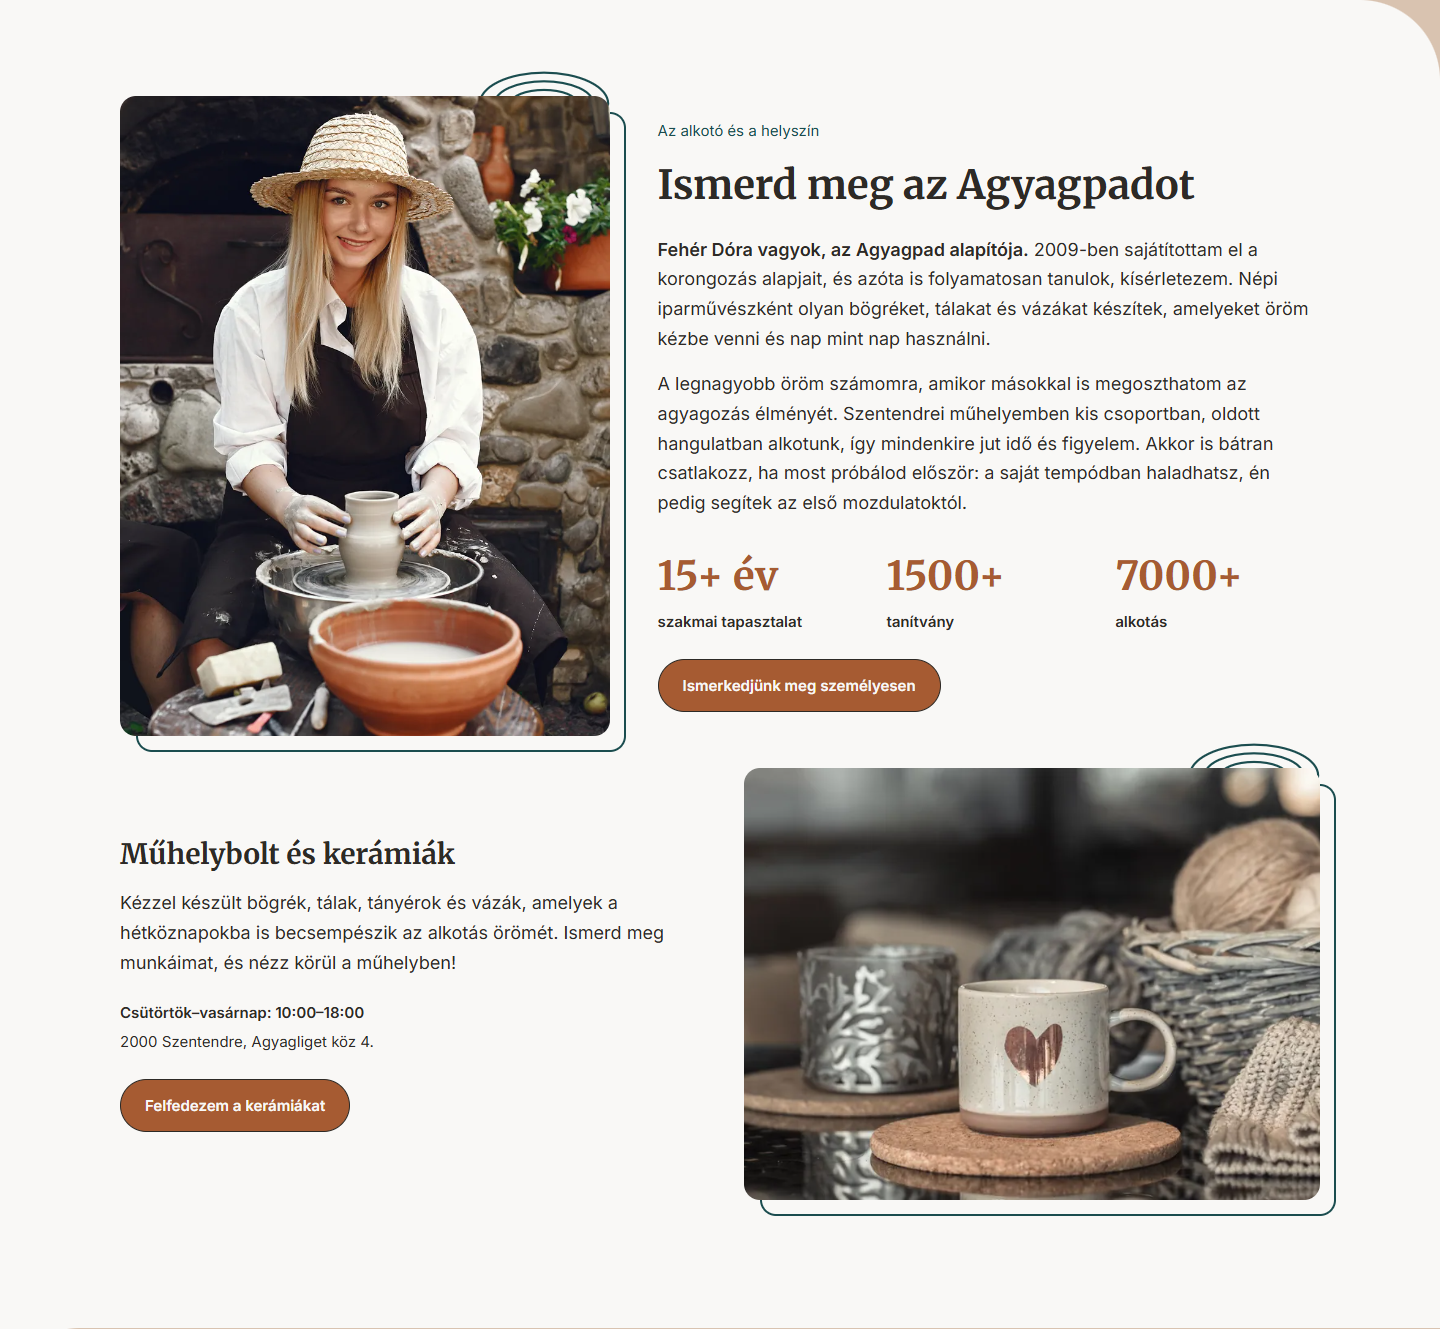
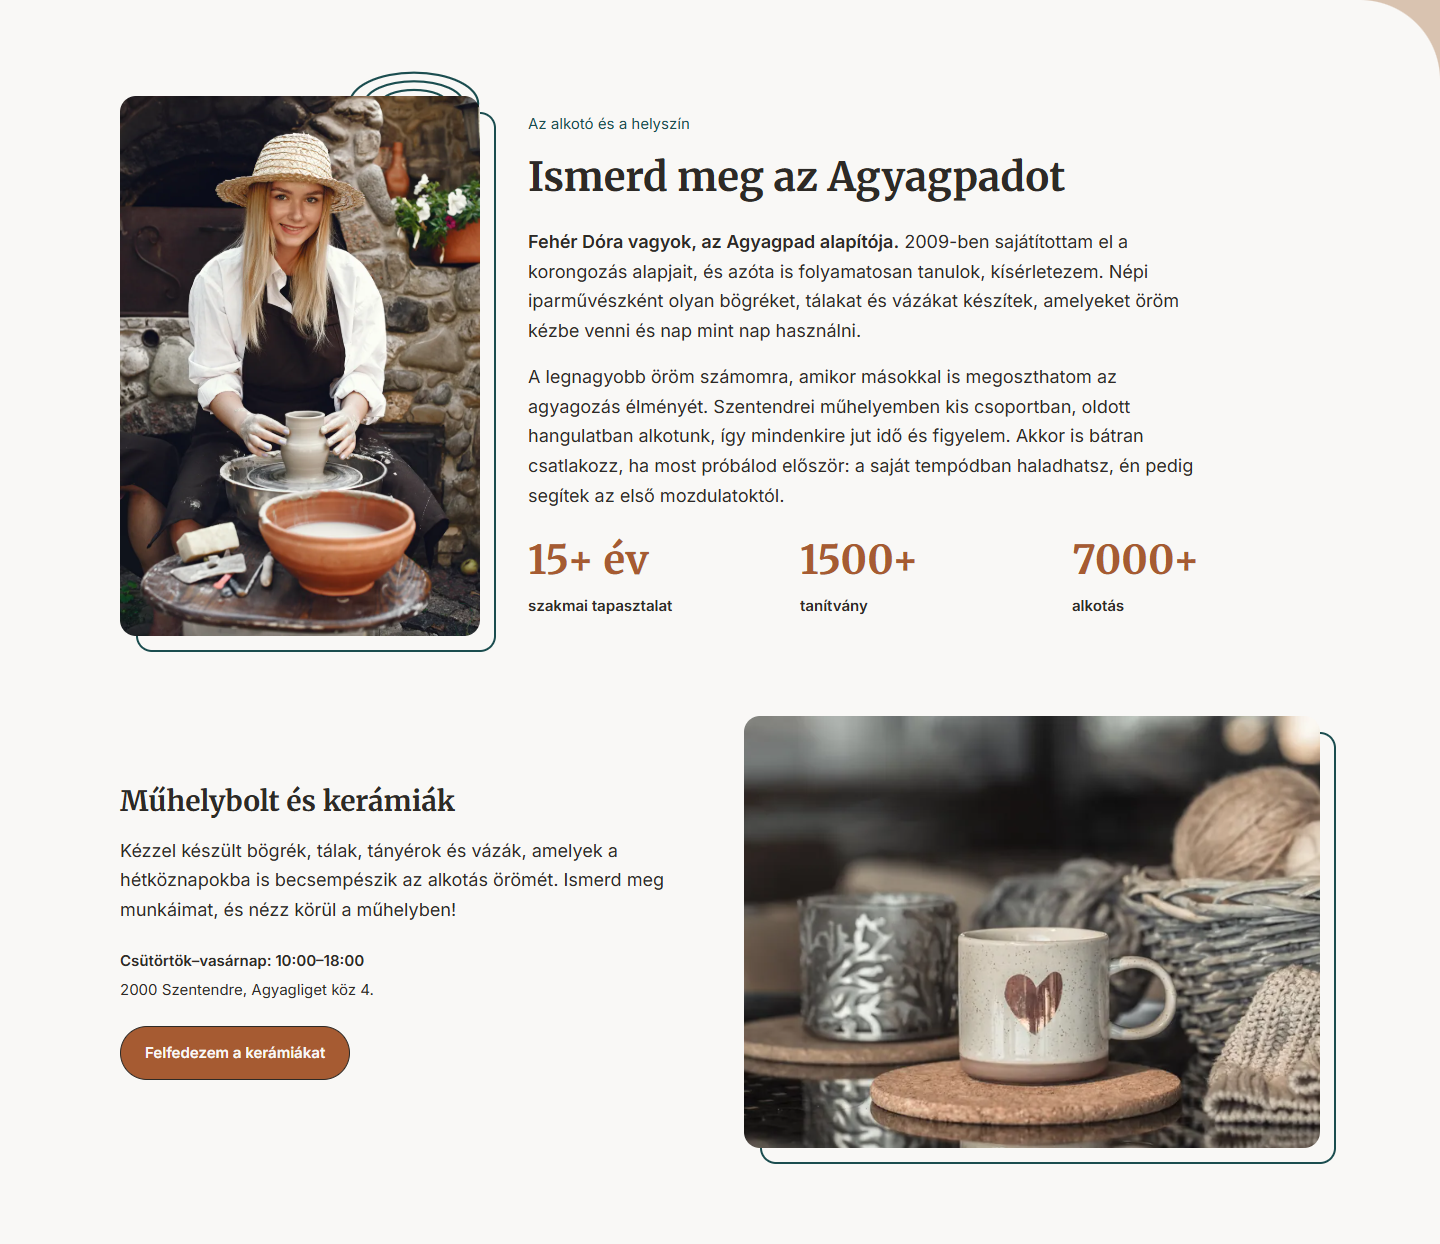
Air out biography and shop layout with natural portrait proportions

diff --git a/assets/udvari-muhely.css b/assets/udvari-muhely.css
@@ -69,7 +69,7 @@ p{max-width:min(42.5rem,65ch)}p+p{margin-top:1rem}
 .photo-surround{position:relative;isolation:isolate}.photo-surround::before{content:'';position:absolute;z-index:-1;pointer-events:none;border:1.5px solid var(--teal);border-radius:1rem}
 .hero .photo-surround::before{inset:18px -14px 36px 14px}.story .photo-surround::before{inset:14px 12px -14px -14px}
 .pottery-lines{position:absolute;top:-40px;right:0;width:124px;height:83px;color:var(--teal);z-index:-1;pointer-events:none}
-.story .pottery-lines,.shop .pottery-lines{top:1.5rem;right:-24px}
+.story .pottery-lines{top:1.5rem;right:-24px}
 .shop .photo-surround::before{inset:14px -14px -14px 14px}
 .portrait-caption{margin-top:.75rem;font-size:var(--small)}
 .chapter{padding-block:var(--section)}#tanfolyamok,#kapcsolat{background:var(--sand)}#muhely{background:var(--paper)}.chapter-heading{margin-bottom:2rem}
@@ -132,7 +132,7 @@ p,.detail-link,.button,.notes-grid li,figcaption{overflow-wrap:anywhere}
 @media(min-width:64rem) and (max-width:74.999rem){.site-header .brand{width:12rem}.site-nav{gap:1rem}.header-cta{margin-left:1rem;padding-inline:1.25rem}}
 @media(max-width:63.999rem){.header-cta{margin:1rem 0 0}.nav-group{flex-direction:column}.site-nav{width:100%}}
 @media(max-width:47.999rem){.header-cta{width:100%}}
-@media(max-width:47.999rem){.story .pottery-lines,.shop .pottery-lines{right:-16px}}
+@media(max-width:47.999rem){.story .pottery-lines{right:-16px}}
 /* A képaláírás a fotóra helyezett, olvasható idézetkártya. */
 .hero .portrait-caption{position:absolute;left:-1.5rem;bottom:1.5rem;z-index:1;margin:0;width:min(16rem,calc(100% - 2rem));padding:1rem 1.25rem;background:var(--paper);color:var(--teal);border:1px solid var(--sand);border-radius:4px 36px 4px 4px;font:400 .9375rem/1.55 var(--heading)}
 .hero .portrait-caption{clip-path:none;box-shadow:0 8px 24px rgb(45 42 38 / 10%)}
@@ -148,8 +148,8 @@ p,.detail-link,.button,.notes-grid li,figcaption{overflow-wrap:anywhere}
 #muhely::before{background:var(--paper);border-top-right-radius:var(--chapter-corner)}
 .story-photo{aspect-ratio:3/4;max-height:40rem;object-position:50% 35%}
 .story .photo-surround::before,.shop .photo-surround::before{inset:16px -16px -16px 16px;border-width:2px}
-.story .pottery-lines,.shop .pottery-lines{top:-42px;right:-8px;width:148px;height:99px;stroke-width:1.75}
-@media(max-width:47.999rem){.story .photo-surround::before,.shop .photo-surround::before{inset:12px -8px -10px 10px}.story .pottery-lines,.shop .pottery-lines{top:-30px;right:0;width:112px;height:75px}}
+.story .pottery-lines{top:-42px;right:-8px;width:148px;height:99px;stroke-width:1.75}
+@media(max-width:47.999rem){.story .photo-surround::before,.shop .photo-surround::before{inset:12px -8px -10px 10px}.story .pottery-lines{top:-30px;right:0;width:112px;height:75px}}
 /* Élményjelölések a kártyákban, a meglévő vonalas ikonrendszerrel. */
 .course-data{display:grid;grid-template-columns:1.5rem minmax(0,1fr);gap:.625rem;align-items:start;color:var(--ink);font-weight:600}
 .course-data p{margin:0;min-width:0;overflow-wrap:anywhere}
@@ -159,8 +159,7 @@ p,.detail-link,.button,.notes-grid li,figcaption{overflow-wrap:anywhere}
 .studio-stats>div{display:flex;flex-direction:column-reverse;justify-content:flex-end;gap:.5rem;min-width:0}
 .studio-stats dt{font-size:var(--small);font-weight:600;overflow-wrap:anywhere}
 .studio-stats dd{margin:0;font:700 clamp(1.75rem,3vw,2.5rem)/1.3 var(--heading);color:var(--clay);overflow-wrap:anywhere}
-.story-text .studio-stats{margin:2rem 0 1.5rem}
-.story-cta{text-transform:none;letter-spacing:normal}
+.story-text .studio-stats{margin:1.5rem 0 0}
 .shop-cta{margin-top:1.5rem;text-transform:none;letter-spacing:normal;gap:.5rem}
 .gallery-section{padding-block:2rem 4rem;scroll-margin-top:2rem}
 .gallery-section h2{margin-bottom:1rem}.gallery-intro{margin-bottom:2.5rem}
@@ -171,3 +170,10 @@ p,.detail-link,.button,.notes-grid li,figcaption{overflow-wrap:anywhere}
 .workshop-visit{padding-block:2rem 4rem}.workshop-visit h2{margin-bottom:1rem}.workshop-visit .button{margin-top:1.5rem}
 .privacy-main h2{font-size:var(--h3);margin-top:2rem}
 @media(max-width:47.999rem){.ceramics-gallery{grid-template-columns:minmax(0,1fr)}.studio-stats{gap:1rem;margin-block:3rem}}
+
+/* Szellős bemutatkozó és műhelybolt, természetes portréaránnyal. */
+.story .photo-surround{width:100%;max-width:22.5rem;justify-self:start}
+.story-photo{aspect-ratio:auto;width:100%;height:auto;max-height:none}
+.shop{margin-top:5rem;padding-block:0}
+@media(min-width:64rem){.story{grid-template-columns:minmax(0,22.5rem) minmax(0,1fr)}}
+@media(max-width:47.999rem){.shop{margin-top:3rem}.story .photo-surround::before{bottom:-8px}}

diff --git a/koncepcio-1-udvari-muhely.html b/koncepcio-1-udvari-muhely.html
@@ -72,7 +72,6 @@
             <p><strong>Fehér Dóra vagyok, az Agyagpad alapítója.</strong> 2009-ben sajátítottam el a korongozás alapjait, és azóta is folyamatosan tanulok, kísérletezem. Népi iparművészként olyan bögréket, tálakat és vázákat készítek, amelyeket öröm kézbe venni és nap mint nap használni.</p>
             <p>A legnagyobb öröm számomra, amikor másokkal is megoszthatom az agyagozás élményét. Szentendrei műhelyemben kis csoportban, oldott hangulatban alkotunk, így mindenkire jut idő és figyelem. Akkor is bátran csatlakozz, ha most próbálod először: a saját tempódban haladhatsz, én pedig segítek az első mozdulatoktól.</p>
             <dl class="studio-stats" aria-label="Dóra műhelye számokban"><div><dt>szakmai tapasztalat</dt><dd>15+ év</dd></div><div><dt>tanítvány</dt><dd>1500+</dd></div><div><dt>alkotás</dt><dd>7000+</dd></div></dl>
-            <a class="button story-cta" href="#kapcsolat">Ismerkedjünk meg személyesen</a>
           </div>
           <figure class="photo-surround"><svg class="pottery-lines" viewBox="0 0 120 80" fill="none" stroke="currentColor" stroke-width="1.5" aria-hidden="true" focusable="false"><ellipse cx="60" cy="40" rx="52" ry="25"/><ellipse cx="60" cy="40" rx="40" ry="18"/><ellipse cx="60" cy="40" rx="27" ry="11"/></svg><img class="photo story-photo" src="images/webp/hero-800.webp"
               srcset="images/webp/hero-480.webp 480w, images/webp/hero-800.webp 800w, images/webp/hero-1200.webp 1200w, images/webp/hero-1600.webp 1600w"
@@ -86,7 +85,7 @@
 <div class="shop-details"><p><strong>Csütörtök–vasárnap: 10:00–18:00</strong></p><p>2000 Szentendre, Agyagliget köz 4.</p></div>
 <a class="button shop-cta" href="muhely.html#keramiak">Felfedezem a kerámiákat</a>
 </div>
-<div class="shop-composition" aria-label="Kerámiák a műhelyben"><figure class="photo-surround"><svg class="pottery-lines" viewBox="0 0 120 80" fill="none" stroke="currentColor" stroke-width="1.5" aria-hidden="true" focusable="false"><ellipse cx="60" cy="40" rx="52" ry="25"/><ellipse cx="60" cy="40" rx="40" ry="18"/><ellipse cx="60" cy="40" rx="27" ry="11"/></svg><img class="photo" src="images/webp/muhelybolt-800.webp" srcset="images/webp/muhelybolt-480.webp 480w, images/webp/muhelybolt-800.webp 800w, images/webp/muhelybolt-1200.webp 1200w, images/webp/muhelybolt-1600.webp 1600w" sizes="(min-width:1296px) 576px, (min-width:768px) 44vw, calc(100vw - 40px)" width="5410" height="3607" loading="lazy" decoding="async" alt="Kész kerámiabögrék, az előtérben szívmintás bögre fa alátéten."></figure></div>
+<div class="shop-composition" aria-label="Kerámiák a műhelyben"><figure class="photo-surround"><img class="photo" src="images/webp/muhelybolt-800.webp" srcset="images/webp/muhelybolt-480.webp 480w, images/webp/muhelybolt-800.webp 800w, images/webp/muhelybolt-1200.webp 1200w, images/webp/muhelybolt-1600.webp 1600w" sizes="(min-width:1296px) 576px, (min-width:768px) 44vw, calc(100vw - 40px)" width="5410" height="3607" loading="lazy" decoding="async" alt="Kész kerámiabögrék, az előtérben szívmintás bögre fa alátéten."></figure></div>
         </div>
       </div>
     </section>

diff --git a/tervezes/design-system.md b/tervezes/design-system.md
@@ -114,9 +114,9 @@ A számadatok szemantikus dl-listában, három oszlopban, levegős térközzel j
 - Átlátszó logó: images/logo/Agyagpad-logo-transparent.svg; PNG-párja ugyanott. Nincs külön doboz, keret vagy színezett háttér.
 - Tartalmi fotók: images/webp, reszponzív srcset/sizes, 16 px lekerekítés, helyes méretattribútumok és tartalomhoz illő alt.
 - A hero képaláírása idézőjeles és dőlt: „Az alkotás az első mozdulattal kezdődik.” A fotó bal alsó részére helyezett törtfehér kártyán jelenik meg, 15 px-es türkiz Merriweather szöveggel, bevezető díszvonal nélkül, homokszínű kerettel, 4/36/4/4 px-es aszimmetrikus lekerekítéssel és a meglévő grafit 10%-os átlátszóságából képzett finom árnyékkal. Mobilon a kártya a fotó szélein belül marad.
-- Hero: agyagpad-hero.jpg alapján optimalizált agyagpad-hero WebP, agyagedényt formáló kezek; 480, 800, 1200 és 1600 px széles változatok. A bemutatkozásban a csatolt hero.jpg álló portréjának hero WebP-készlete, 3:4 képkivágással, 50% 35% fókuszponttal; a hangsúlyos portré nem ismétlődik.
+- Hero: agyagpad-hero.jpg alapján optimalizált agyagpad-hero WebP, agyagedényt formáló kezek; 480, 800, 1200 és 1600 px széles változatok. A bemutatkozásban a csatolt hero.jpg álló portréjának hero WebP-készlete, eredeti, közel 2:3 képaránnyal, nyújtás és kényszerített kivágás nélkül, legfeljebb 360 px szélességgel; a hangsúlyos portré nem ismétlődik.
 - A főoldali műhelyboltnál egyetlen fotó marad: muhelybolt (kész bögrék), 4:3 képaránnyal. A korábbi második, vázás kép lekerült; az eredeti fájlt megőrizzük. A tárgyak bemutatásáról szóló második mondat külön bekezdés.
-- Kevés, türkiz eltolt képkeret és koronggyűrű-vonalgrafika. A hero keretvonala 1,5 px; a bemutatkozó és műhelybolti képé 2 px, 16 px-es asztali és 8 px-es mobilos jobb oldali eltolással. A két kép jobb felső részén a fotó mögül három gyűrű látszik ki: asztalon 148 × 99 px, mobilon 112 × 75 px, 1,75 px-es vonallal. Nincs botanikai minta, erős háttértextúra vagy folyamatos animáció.
+- Kevés, türkiz eltolt képkeret és koronggyűrű-vonalgrafika. A hero keretvonala 1,5 px; a bemutatkozó és műhelybolti képé 2 px, 16 px-es asztali és 8 px-es mobilos jobb oldali eltolással. Köríves motívum a műhelyszakaszon belül csak a portré jobb felső részén marad; a műhelybolti képről eltávolítottuk. A portrénál a fotó mögül három gyűrű látszik ki: asztalon 148 × 99 px, mobilon 112 × 75 px, 1,75 px-es vonallal. Nincs botanikai minta, erős háttértextúra vagy folyamatos animáció.
 - A nyitókép eager, a lejjebb lévő képek lazy betöltésűek; eredeti fotók megőrizve.
 
 ## Közös tájékoztatás
@@ -133,7 +133,7 @@ Az éles űrlap, adatkezelési tájékoztató, tételes képkreditek, végleges 
 
 Favicon: images/logo/Agyagpad-favicon-transparent.svg, 256 px-es átlátszó PNG-tartalékkal; a korábbi WebP ikon is átlátszó változatra frissült. Az eredeti háttérrel rendelkező forrásfájlok megmaradnak, az oldal a háttér nélküli változatokat használja.
 
-A műhelybolt blokk tartalmi és vizuális sorrendje szöveg, majd fotó: asztalon szöveg balra, fotó jobbra; mobilon szöveg felül és fotó alatta. A kép jobb oldali türkiz kerete és koronggyűrűi megmaradnak.
+A műhelybolt blokk tartalmi és vizuális sorrendje szöveg, majd fotó: asztalon szöveg balra, fotó jobbra; mobilon szöveg felül és fotó alatta. A kép jobb oldali türkiz eltolt kerete megmarad, koronggyűrűk nélkül.
 
 ## November 12-i szakaszritmus
 
@@ -143,4 +143,4 @@ A Tanfolyamok szakasz bal felső, a Műhely szakasz jobb felső, a Kapcsolat sza
 
 A hero főcíme „Alkoss agyagból, bontakozz ki Szentendrén.”, hosszabb, kezdőbarát bevezetővel. A kapcsolat szakaszban nincs állandó demó- vagy prototípusmegjegyzés; a foglalás nélküli érdeklődés tájékoztatása megmarad. A lábléc minden aktív oldalon az új közös szöveget, négy navigációs linket és a rövid fiktív vizsgamunka-jelzést használja. Az „Írj az űrlapon” link kikerült.
 
-A bemutatkozás három számadata a jobb oldali szövegoszlopban, a két bekezdés alatt marad. Közvetlenül alattuk terrakotta „Ismerkedjünk meg személyesen” CTA vezet a #kapcsolat szakaszhoz, normál betűközzel és csak kezdő nagybetűvel. A „Felfedezem a kerámiákat” gomb feliratához nem tartozik nyíl.
+A bemutatkozás a három számadattal zárul, a két bekezdés után 24 px (1,5rem) térközzel; külön bemutatkozó CTA nincs. A bemutatkozó és a műhelybolt blokk közötti távolság asztalon 80 px (5rem), mobilon 48 px (3rem). A portré eredeti arányú, legfeljebb 360 px széles, természetes magassággal. A köríves motívum csak a portrénál marad, a műhelybolti képnél csak az eltolt keret. A Felfedezem a kerámiákat gomb megmarad, nyíl nélkül, muhely.html#keramiak céllal.

diff --git a/ellenorzes/eredmenyek.md b/ellenorzes/eredmenyek.md
@@ -50,3 +50,9 @@ Netlify-projekt és élő URL; form detection; értesítési cím; valódi üzem
 ## Bemutatkozó számadatok és CTA – későbbi finomítás
 
 A három számadat a bemutatkozó szövegoszlopba, a két bekezdés alá került. Alatta az Ismerkedjünk meg személyesen gomb a #kapcsolat szakaszhoz navigál. A Felfedezem a kerámiákat gomb nyila kikerült. Hét célzott nézetben ellenőrizve: 320, 390, 768, 1024 és 1440 px, valamint 390 és 1440 px 200%-os szöveggel. A számadatok és a CTA sorrendje, a valódi horgonyugrás és a túlcsordulás-mentesség sikeres. A friss képernyőképek és a szövegforrás is ezt az elrendezést követik.
+
+## Szellősebb bemutatkozás és műhelybolt
+
+A későbbi kérés felülírja az előző CTA-elrendezést: a bemutatkozó gomb kikerült, a szöveg a három számadattal zárul. Szöveg–számadat távolság: 24 px; blokkok között asztalon 80 px, mobilon 48 px. A portré nyújtás és kényszerített képkivágás nélkül, eredeti közel 2:3 aránnyal, maximum 360 px szélességgel jelenik meg. Körív a műhelyszakaszon belül csak a portrénál van; mindkét kép eltolt kerete megmarad.
+
+A bemutatkozas-ellenorzes.cjs hét célzott próbája sikeres: 320, 390, 768, 1024 és 1440 px, valamint mobil és asztal 200%-os szöveggel. Mértük a térközöket, a természetes képarányt, a számadatok végső pozícióját, a dekorációk számát, a váltakozó kép–szöveg sorrendet és a túlcsordulás-mentességet. A kerámiagomb célja változatlan. Az eredmény a bemutatkozas-ellenorzes.json fájlban van.

diff --git a/tervezes/aktualis-oldalterkep.md b/tervezes/aktualis-oldalterkep.md
@@ -35,4 +35,4 @@ Az adatkezelési oldal a még inaktív fogadót és a tényleges üzemeltetői a
 
 Az eredeti drótvázak történeti folyamatképek maradnak. A beadas/tervezesi-folyamat/03-aktualis-oldalterkep.png az aktuális szerkezetet mutatja; a beadas/jelenlegi-oldal mappában friss mobil- és asztali felvételek vannak. A vizsgakiírás legalább három oldalt vagy szekciót kér; a négy főoldali szekció ezt teljesíti. A valódi űrlapot a felhasználó külön projektkövetelménnyé tette; az éles próbája még hátravan.
 
-Bemutatkozó elrendezés finomítása: a három számadat a bemutatkozó szövegoszlopba került, a két bekezdés alá; alattuk az Ismerkedjünk meg személyesen gomb a #kapcsolat szakaszhoz vezet. A műhelybolt kerámiagombjáról a nyíl lekerült.
+Bemutatkozó elrendezés finomítása: a két bekezdés alatt 24 px-re a három számadat zárja a szövegoszlopot; külön CTA nincs. A műhelyboltig asztalon 80 px, mobilon 48 px térköz van. A portré eredeti arányú és a tartalomhoz méretezett. A körív csak a portrénál marad, a kerámiás képnél eltolt keret szerepel. A műhelybolt kerámiagombja továbbra is nyíl nélkül a muhely.html#keramiak célra mutat.

diff --git a/tervezes/szovegek.md b/tervezes/szovegek.md
@@ -74,7 +74,7 @@ A legnagyobb öröm számomra, amikor másokkal is megoszthatom az agyagozás é
 - 1500+ tanítvány
 - 7000+ alkotás
 
-A számadatok a bemutatkozó szövegoszlopban, a két bekezdés alatt szerepelnek. Alattuk: Ismerkedjünk meg személyesen → #kapcsolat.
+A számadatok a bemutatkozó szövegoszlopban, a két bekezdés alatt, 24 px térközzel szerepelnek. A bemutatkozás ezekkel zárul, külön CTA nincs.
 
 ## Műhelybolt és kerámiák
 
